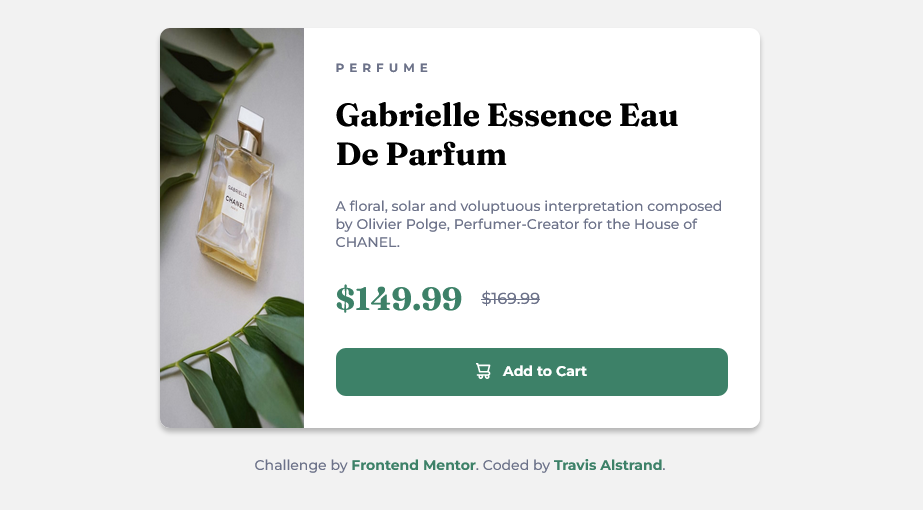
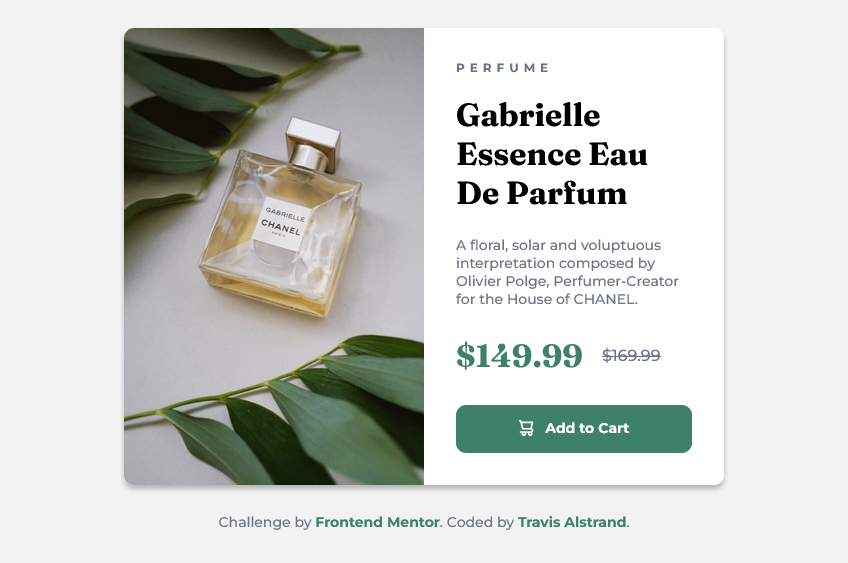
fixed in firefox, changed screenshot for readme

diff --git a/style.css b/style.css
@@ -151,14 +151,15 @@ a:visited {
 
 @media (min-width: 648px) {
   .card {
-    display: flex;
+    display: grid;
+    grid-template-columns: 1fr 1fr;
     margin-inline: auto;
     max-width: 600px;
   }
 
   img {
     content: url(./images/image-product-desktop.jpg);
-    width: 50%;
+    height: 100%;
     border-radius: 10px 0 0 10px;
   }
 
